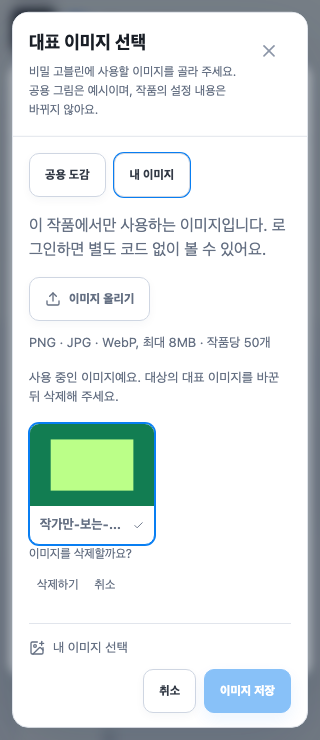
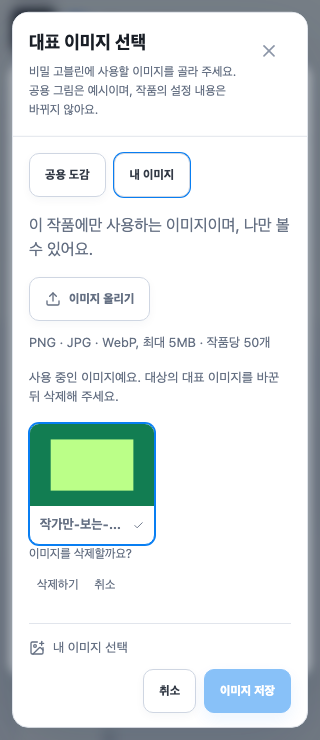
fix(world-image): 계정 전환 후 이전 업로드 응답 격리
이미지 선택창이 바뀔 때 처리 잠금을 정리하고 이전 요청의 완료 응답이 새 선택창을 건드리지 않게 한다. 지연 응답 회귀 테스트와 실제 로컬 연동을 검증하고 5MB 안내 캡처를 갱신한다.

Changed region(s): [[0.0938, 0.2797, 0.9062, 0.373], [0.7812, 0.4351, 0.8438, 0.4662], [0.5312, 0.4351, 0.5938, 0.4662]]

diff --git a/src/app/components/catchhole/worldsetting/PrivateWorldImagePicker.tsx b/src/app/components/catchhole/worldsetting/PrivateWorldImagePicker.tsx
@@ -1,4 +1,4 @@
-import { useState } from 'react';
+import { useEffect, useRef, useState } from 'react';
 import { useMutation, useQuery } from '@tanstack/react-query';
 import { Check, Upload } from 'lucide-react';
 import { deletePrivateWorldImageMutation, getPrivateWorldImagesOptions, uploadPrivateWorldImageMutation } from '../../../api/generated/@tanstack/react-query.gen';
@@ -27,13 +27,18 @@ function PrivateImageOption({ image, workId, selected, pending, onSelect, onDele
 
 export function PrivateWorldImagePicker(props: Parameters<typeof AccountPrivateWorldImagePicker>[0]) {
   const session = usePrivateImageSession();
-  return <AccountPrivateWorldImagePicker key={session} {...props} />;
+  return <AccountPrivateWorldImagePicker key={`${session}:${props.workId}`} {...props} />;
 }
 
 function AccountPrivateWorldImagePicker({ workId, selectedId, pending, onSelect, onBusy }: {
   workId: string; selectedId?: string; pending: boolean;
   onSelect: (image: PrivateWorldImageResponse | null) => void; onBusy: (busy: boolean) => void;
 }) {
+  const mounted = useRef(true);
+  useEffect(() => {
+    mounted.current = true;
+    return () => { mounted.current = false; onBusy(false); };
+  }, [onBusy]);
   const [page, setPage] = useState(0);
   const [busy, setBusy] = useState(false);
   const [error, setError] = useState('');
@@ -47,7 +52,12 @@ function AccountPrivateWorldImagePicker({ workId, selectedId, pending, onSelect,
     setBusy(true); onBusy(true); setError('');
     return privateImageSessionEpoch();
   }
-  function endAction() { setBusy(false); onBusy(false); }
+  function isCurrentAction(epoch: number) {
+    return mounted.current && epoch === privateImageSessionEpoch();
+  }
+  function endAction(epoch: number) {
+    if (isCurrentAction(epoch)) { setBusy(false); onBusy(false); }
+  }
   async function reportError(cause: unknown) {
     setError(toApiError(cause)?.message ?? (cause instanceof Error ? cause.message : '이미지 작업을 마치지 못했어요. 목록을 확인한 뒤 다시 시도해 주세요.'));
     await list.refetch();
@@ -56,7 +66,7 @@ function AccountPrivateWorldImagePicker({ workId, selectedId, pending, onSelect,
     const epoch = beginAction();
     try {
       const prepared = await preparePrivateImage(file);
-      if (epoch !== privateImageSessionEpoch()) return;
+      if (!isCurrentAction(epoch)) return;
       const result = await upload.mutateAsync({ path: { workId }, body: {
         metadata: { id: prepared.id, name: prepared.name }, image: prepared.image, thumbnail: prepared.thumbnail,
       }, bodySerializer: body => {
@@ -66,22 +76,22 @@ function AccountPrivateWorldImagePicker({ workId, selectedId, pending, onSelect,
         data.append('image', value.image, 'image.png'); data.append('thumbnail', value.thumbnail, 'thumbnail.png');
         return data;
       } });
-      if (epoch !== privateImageSessionEpoch()) return;
+      if (!isCurrentAction(epoch)) return;
       if (result.data) onSelect(result.data);
       setPage(0); await list.refetch();
-    } catch (cause) { if (epoch === privateImageSessionEpoch()) await reportError(cause); }
-    finally { endAction(); }
+    } catch (cause) { if (isCurrentAction(epoch)) await reportError(cause); }
+    finally { endAction(epoch); }
   }
   async function deleteImage(image: PrivateWorldImageResponse) {
     const epoch = beginAction();
     try {
       await remove.mutateAsync({ path: { workId, imageId: image.id! } });
-      if (epoch !== privateImageSessionEpoch()) return;
+      if (!isCurrentAction(epoch)) return;
       if (selectedId === image.id) onSelect(null);
       if (entries?.content?.length === 1 && page > 0) setPage(page - 1);
       await list.refetch();
-    } catch (cause) { if (epoch === privateImageSessionEpoch()) await reportError(cause); }
-    finally { endAction(); }
+    } catch (cause) { if (isCurrentAction(epoch)) await reportError(cause); }
+    finally { endAction(epoch); }
   }
   return <>
     <p className="world-image-picker__description">이 작품에만 사용하는 이미지이며, 나만 볼 수 있어요.</p>

diff --git a/e2e/private-images.spec.ts b/e2e/private-images.spec.ts
@@ -42,3 +42,37 @@ test('계정 변경은 이전 세션의 이미지와 목록을 숨기고 기존 
   await page.evaluate(() => window.dispatchEvent(new StorageEvent('storage', { key: 'accessToken', newValue: 'changed-account' })));
   await expect(page.getByText('이미지를 다시 올려 주세요', { exact: true })).toHaveCount(0);
 });
+
+
+test('계정 변경 전 업로드 응답은 새 업로드의 처리 상태를 해제하지 않는다', async ({ page }) => {
+  const release: (() => void)[] = [];
+  await page.route('**/api/v1/works/fixture/private-world-images*', async route => {
+    if (route.request().method() === 'POST') {
+      await new Promise<void>(resolve => release.push(resolve));
+      await route.fulfill({ contentType: 'application/json', body: JSON.stringify({ success: true, data: null }) });
+    } else {
+      await route.fulfill({ contentType: 'application/json', body: JSON.stringify({ success: true, data: { content: [], totalPages: 0 } }) });
+    }
+  });
+  await page.goto('/login');
+  const png = await page.evaluate(async () => {
+    const path = '/e2e/fixtures/private-image-picker.tsx';
+    (await import(/* @vite-ignore */ path)).mountPrivatePicker();
+    const canvas = document.createElement('canvas'); canvas.width = 2; canvas.height = 2;
+    return canvas.toDataURL().split(',')[1];
+  });
+  const file = { name: 'test.png', mimeType: 'image/png', buffer: Buffer.from(png, 'base64') };
+  await page.getByLabel('내 이미지 파일 선택').setInputFiles(file);
+  await expect.poll(() => release.length).toBe(1);
+  await page.evaluate(() => window.dispatchEvent(new StorageEvent('storage', { key: 'accessToken', newValue: 'changed-account' })));
+  await expect(page.getByLabel('내 이미지 파일 선택')).toBeEnabled();
+  await page.getByLabel('내 이미지 파일 선택').setInputFiles(file);
+  await expect.poll(() => release.length).toBe(2);
+  const oldResponse = page.waitForResponse(response => response.request().method() === 'POST' && response.url().includes('private-world-images'));
+  release[0](); await oldResponse;
+  await expect(page.getByLabel('상위 처리 상태')).toHaveText('처리 중');
+  await expect(page.getByLabel('내 이미지 파일 선택')).toBeDisabled();
+  release[1]();
+  await expect(page.getByLabel('상위 처리 상태')).toHaveText('준비');
+  await expect(page.getByLabel('내 이미지 파일 선택')).toBeEnabled();
+});

diff --git a/e2e/fixtures/private-image-picker.tsx b/e2e/fixtures/private-image-picker.tsx
@@ -1,12 +1,19 @@
+import { useState } from 'react';
 import { createRoot } from 'react-dom/client';
 import { QueryClient, QueryClientProvider } from '@tanstack/react-query';
 import { PrivateWorldImagePicker } from '../../src/app/components/catchhole/worldsetting/PrivateWorldImagePicker';
 
 export function mountPrivatePicker() {
+function PickerHarness() {
+  const [busy, setBusy] = useState(false);
+  return <><output aria-label="상위 처리 상태">{busy ? '처리 중' : '준비'}</output>
+    <PrivateWorldImagePicker workId="fixture" pending={busy} onBusy={setBusy} onSelect={() => {}} /></>;
+}
+
   document.getElementById('root')?.remove();
   const target = document.createElement('div'); document.body.append(target);
   const client = new QueryClient({ defaultOptions: { queries: { retry: false } } });
   createRoot(target).render(<QueryClientProvider client={client}>
-    <PrivateWorldImagePicker workId="fixture" pending={false} onBusy={() => {}} onSelect={() => {}} />
+    <PickerHarness />
   </QueryClientProvider>);
 }

diff --git a/docs/private-world-images.md b/docs/private-world-images.md
@@ -19,3 +19,9 @@
 ## 검증
 
 `e2e/private-images.spec.ts`는 PNG/JPEG 변환·잘못된 파일 거절·계정 변경 후 이전 목록 제거·암호화 이미지 안내를 확인한다. `private-images-live.spec.ts`와 `character-images-live.spec.ts`는 일회용 로컬 계정으로 업로드/선택/새로고침/작품 안 공유/미인증 파일 접근/사용 중 삭제 거절/삭제를 확인한다. 테스트 종료 시 생성 작품과 계정을 정리한다. 실행 방법은 [로컬 fixture 안내](local-image-live-tests.md)를 따른다. 현재 화면은 `docs/screens/gh199/`에 저장했다.
+
+## 최종 경계 점검 (GH199)
+
+계정 또는 작품 전환으로 이미지 선택창이 교체되면 이전 작업의 처리 잠금을 해제한다. 이전 업로드·삭제 응답은 새 선택창의 선택과 오류, 처리 잠금에 반영하지 않는다. 세션 전환 뒤 두 업로드 응답이 역순으로 도착하는 Playwright 회귀 사례로 검증한다. 이미지 5MiB 한도와 작품당 50개 정책은 동일하다.
+
+최종 검증: 관련 Playwright 91건 통과, 이미지 3건 재검증 및 실제 로컬 API 연동 2건 통과. 새 5MB 안내가 포함된 데스크톱/모바일 캡처를 갱신했다.
